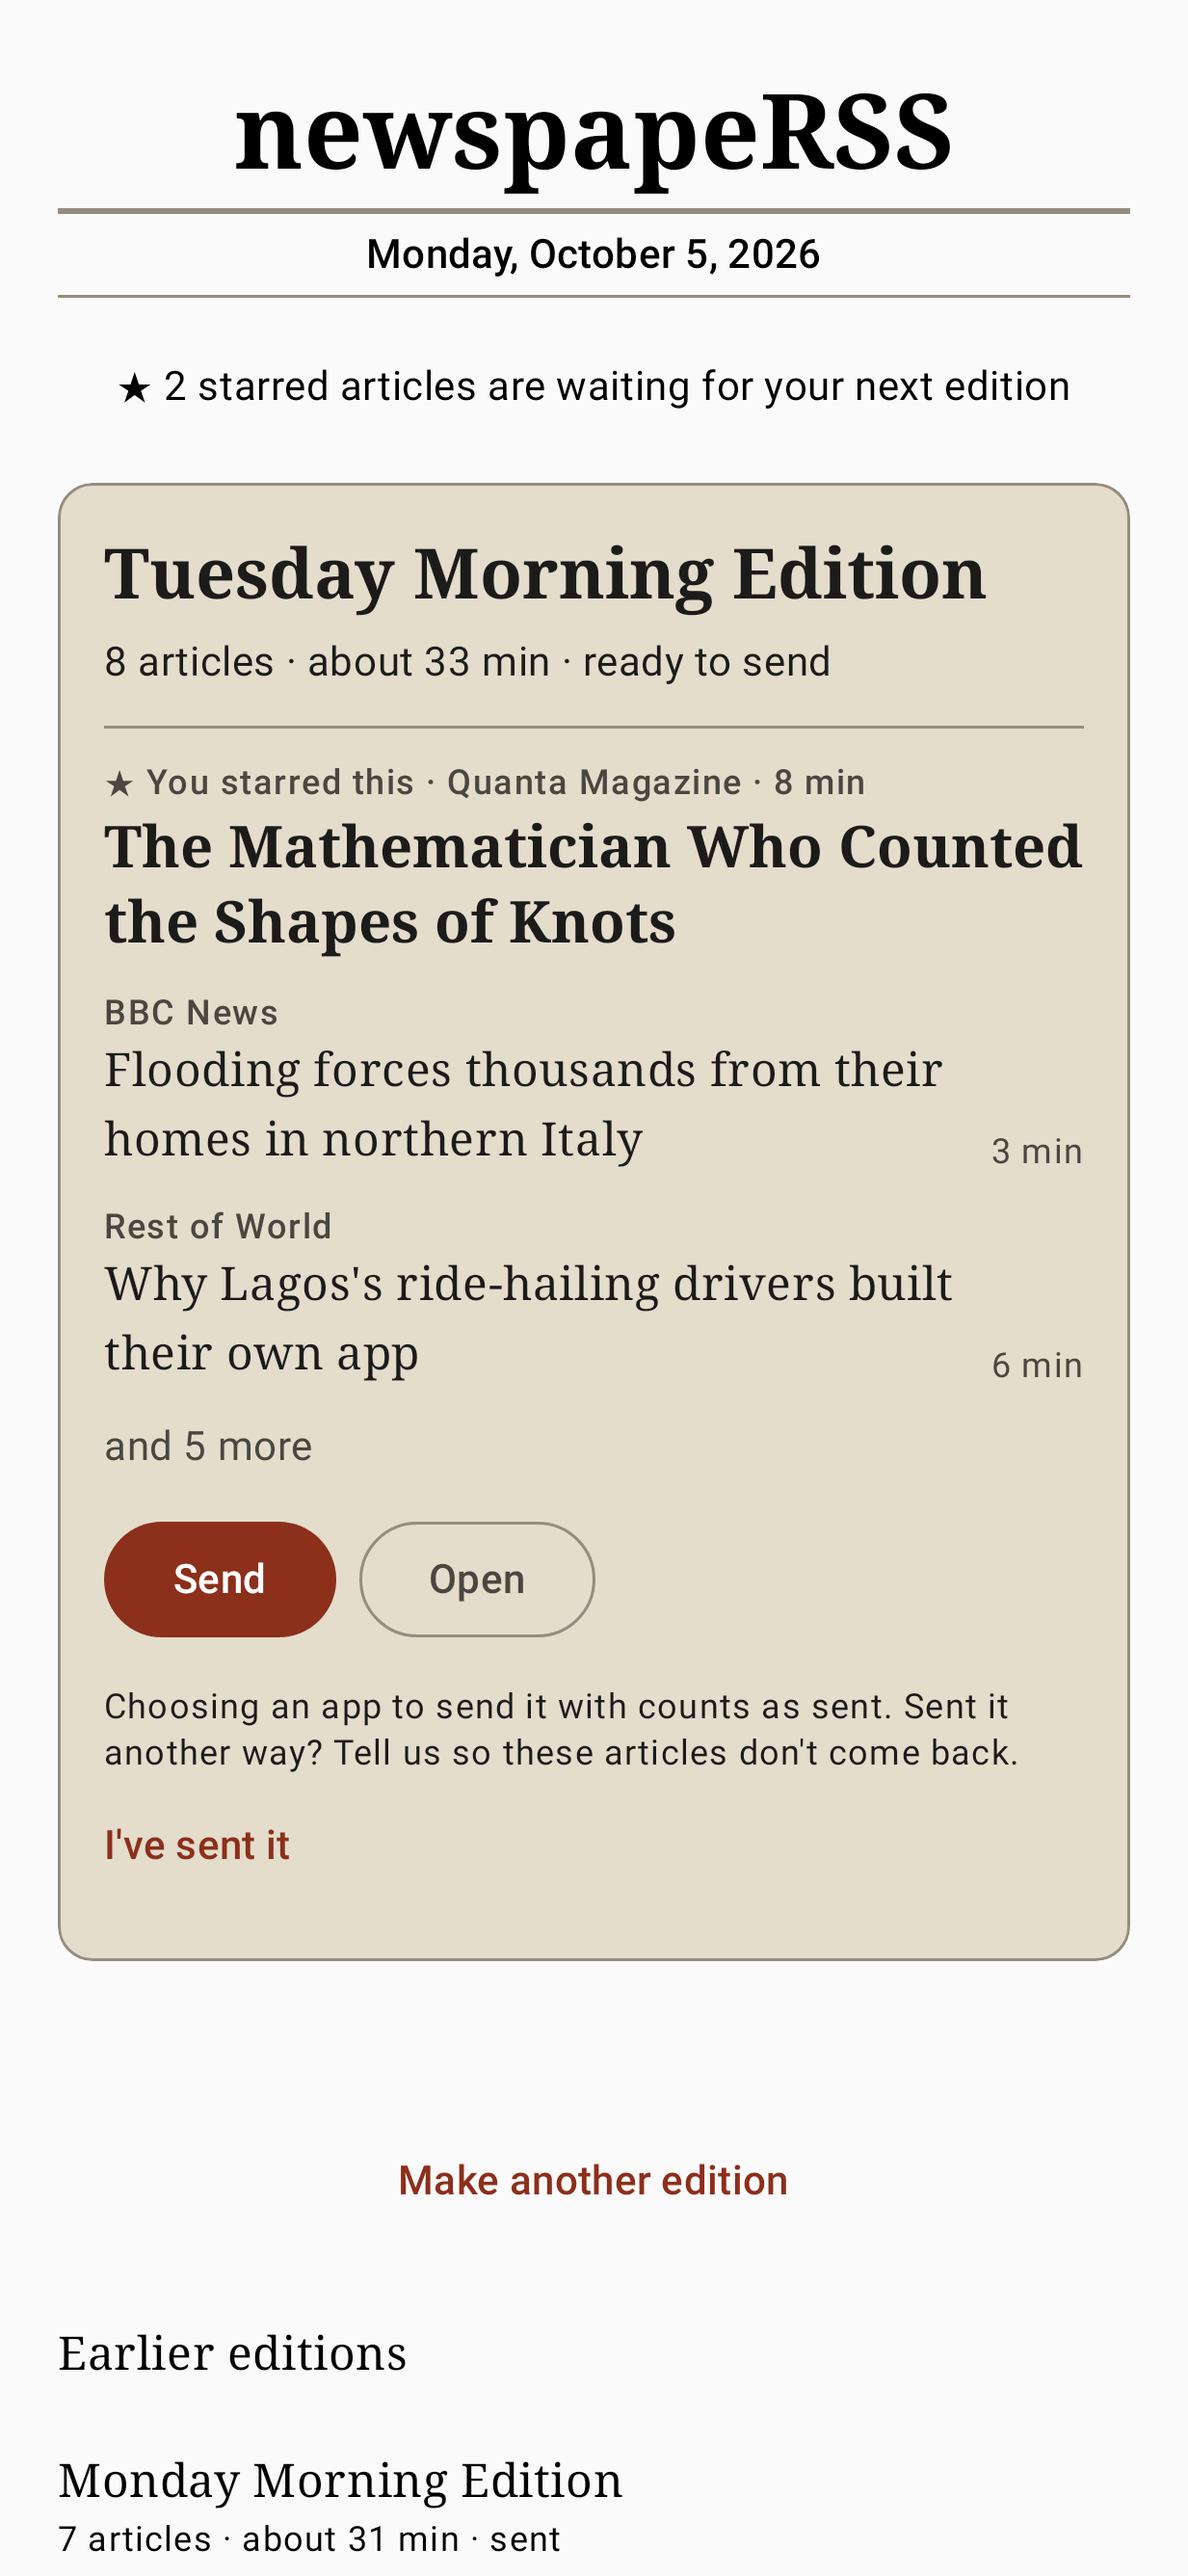
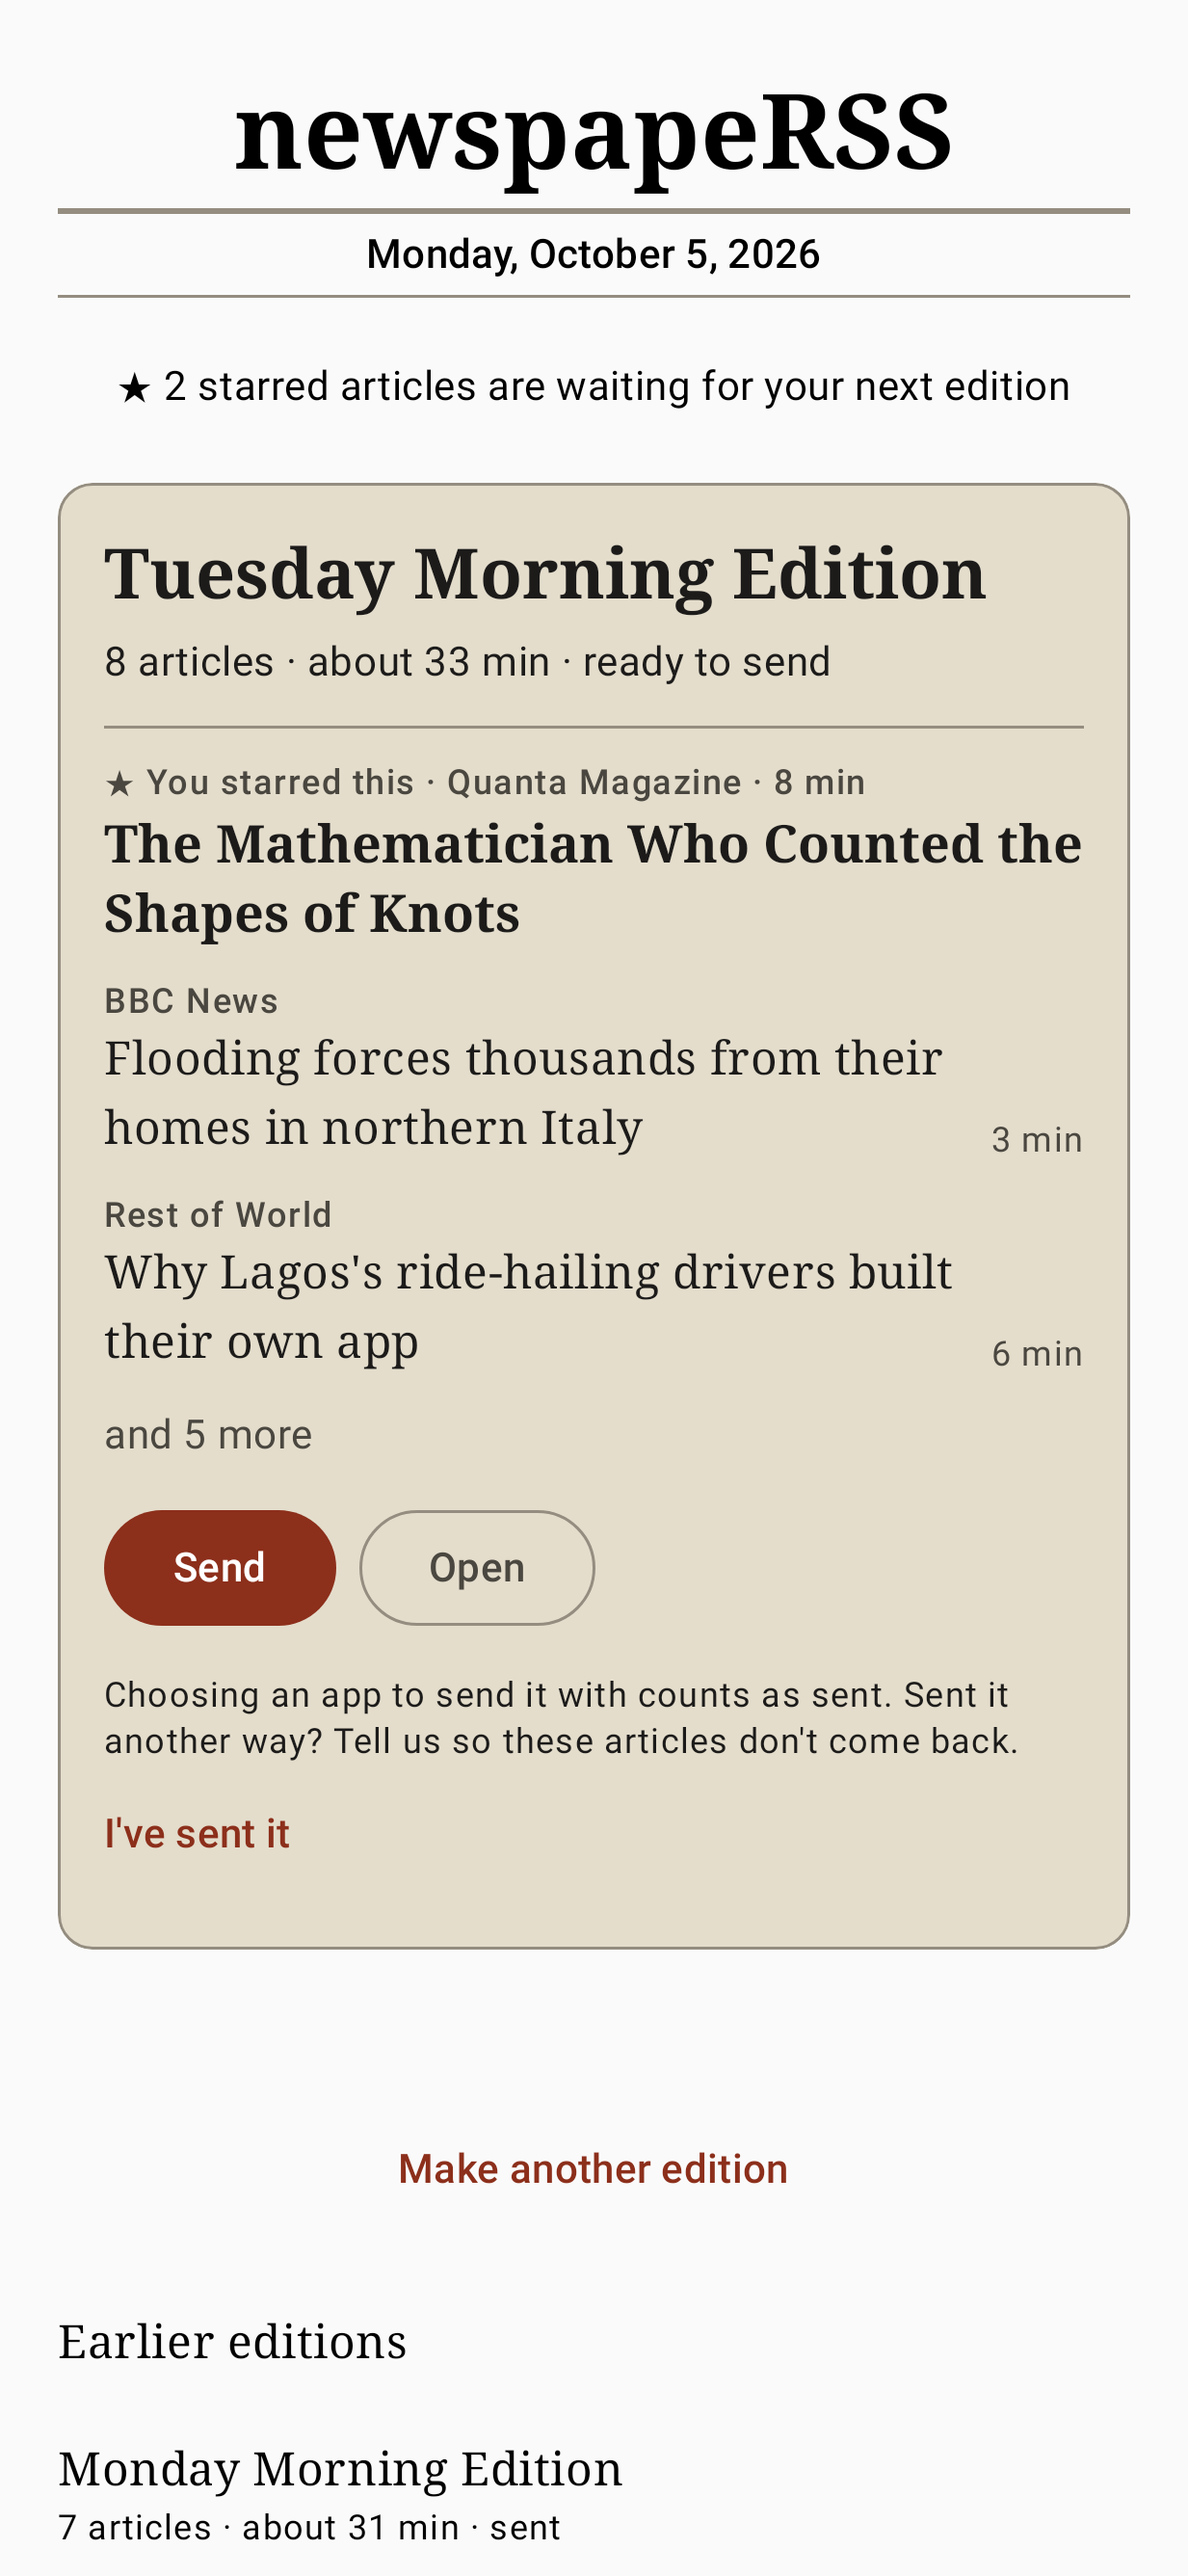
Today card: the lead a step below the edition's title
At 20sp the lead headline nearly matched the 24sp title and the two
competed. At 18sp it sits between the title and the 16sp headlines.

Claude-Session: https://claude.ai/code/session_01MzcGB3SVjMHS1z9RP26TLw

diff --git a/app/src/main/java/com/app/newspaperss/ui/today/TodayScreen.kt b/app/src/main/java/com/app/newspaperss/ui/today/TodayScreen.kt
@@ -380,7 +380,7 @@ private fun FrontPagePreview(page: FrontPage) {
     )
     Text(
         lead.title,
-        style = MaterialTheme.typography.titleLarge.copy(fontSize = 20.sp, lineHeight = 26.sp),
+        style = MaterialTheme.typography.titleLarge.copy(fontSize = 18.sp, lineHeight = 24.sp),
         maxLines = 3,
         overflow = TextOverflow.Ellipsis,
         modifier = Modifier.padding(top = 2.dp),
